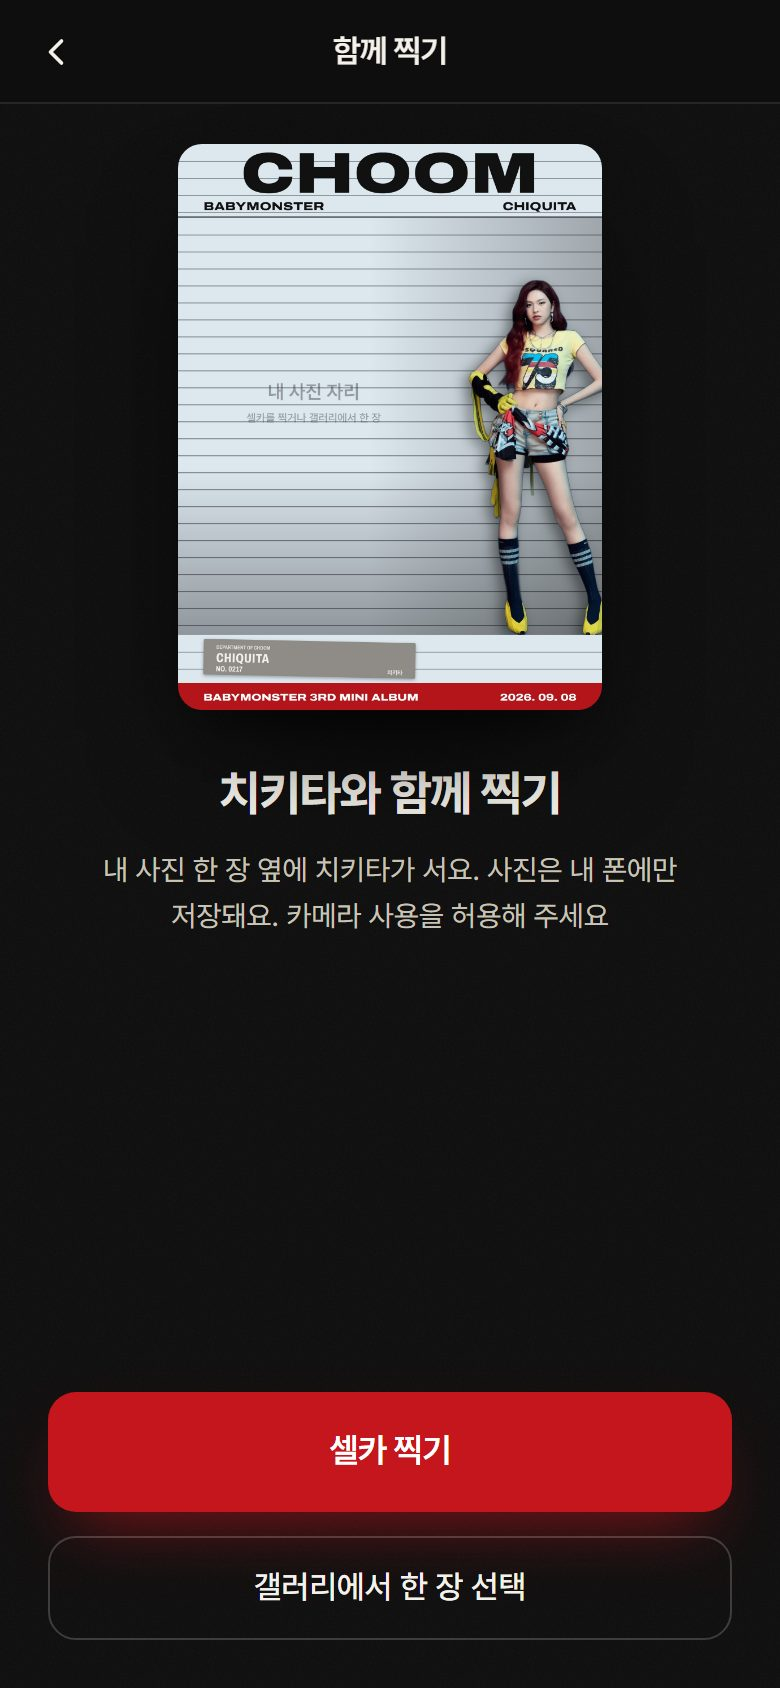
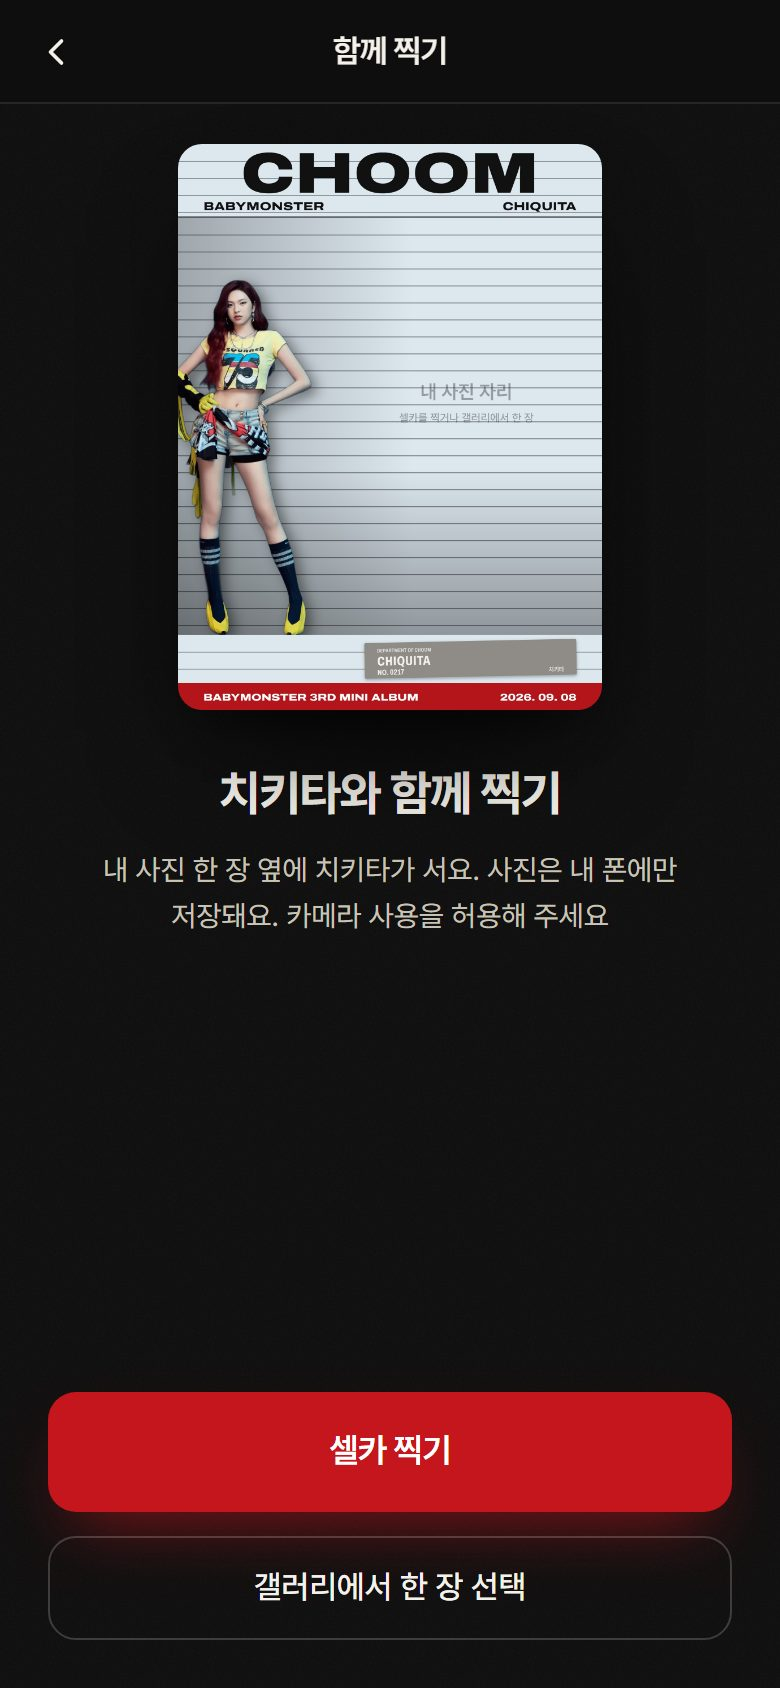
세트 완성 이벤트 코드 반영: 단체 프레임 해금 제거, 이벤트 안내 시트·안내 페이지 항목 추가
- data/lucky-numbers.json: setEvent(사은품, 지급 수량 10, 응모 마감, 발표일) 추가. 타입 lib/catalog.ts SetEvent, PublicSet 으로 클라이언트 전달
- 내 도감: 7장 완성 시 "세트를 모두 모았어요" + "이벤트 안내 보기" 버튼 → 세트 완성 이벤트 시트(사은품, 응모 방법, 마감, 발표, 응모하기). 응모하기는 데모라 안내 토스트
- 함께 찍기: 세트 완성 해금 로직 제거. 단체 프레임은 단체 카드의 기본 프레임으로만 제공
- 럭키 넘버 안내: "세트 완성 이벤트" 섹션(응모 조건, 사은품, 지급 수량, 선정 방식, 마감, 발표). 팬 화면 금지 단어 원칙 유지, 수량·선정 방식은 여기서만 서술
- README: 상단에 BABYMONSTER [CHOOM] 샘플 제작 문구, 구현 상태 메모 삭제, 완성 화면·이벤트 시트 캡처 2장 추가
- scripts/shoot-readme.mjs: 7장 완성 상태와 이벤트 시트 캡처 단계 추가, 캡처 19장 재생성

검증: tsc, vitest 16, 금지 단어 검사, 스모크 e2e 21 / 21 통과

Claude-Session: https://claude.ai/code/session_01VEcZGMK1C3uahTAL6qa2Eo

Changed region(s): [[0.2154, 0.1232, 0.7692, 0.4005]]

diff --git a/components/Collection.tsx b/components/Collection.tsx
@@ -7,7 +7,7 @@ import { isSetComplete, useCollection } from "@/lib/collection";
 import { BottomNav } from "./BottomNav";
 import { cardHref } from "@/lib/card-link";
 import type { PublicSet } from "@/lib/public-set";
-import { BottomSheet, PrimaryButton, SecondaryButton, TopBar } from "./ui";
+import { BottomSheet, PrimaryButton, SecondaryButton, Toast, TopBar } from "./ui";
 
 export function Collection({ set }: { set: PublicSet }) {
   const items = useCollection((s) => s.items);
@@ -15,6 +15,8 @@ export function Collection({ set }: { set: PublicSet }) {
   const hydrated = useCollection((s) => s.hydrated);
   const clear = useCollection((s) => s.clear);
   const [confirmOpen, setConfirmOpen] = useState(false);
+  const [eventOpen, setEventOpen] = useState(false);
+  const [toast, setToast] = useState<string | null>(null);
   const [view, setView] = useState<"member" | "serial">("member");
 
   useEffect(() => {
@@ -165,27 +167,30 @@ export function Collection({ set }: { set: PublicSet }) {
                     />
                   )}
                 </AnimatePresence>
-                <p className="text-[14px] font-semibold">
-                  세트를 모두 모았어요. 단체 프레임이 열렸어요
+                <p className="text-[14px] font-semibold">세트를 모두 모았어요</p>
+                <p className="mt-0.5 text-[12.5px] text-paper/70">
+                  7장을 모두 모은 분께 드리는 이벤트가 있어요
                 </p>
-                <Link
-                  href="/studio"
-                  className="mt-2 inline-flex items-center gap-1 text-[13px] font-medium text-paper/80 underline-offset-4 active:underline"
+                <button
+                  type="button"
+                  onClick={() => setEventOpen(true)}
+                  className="mt-2 inline-flex items-center gap-1 text-[13px] font-medium text-paper/85 underline-offset-4 active:underline"
                 >
-                  함께 찍기로 가기
+                  이벤트 안내 보기
                   <svg
                     width="14"
                     height="14"
                     viewBox="0 0 24 24"
                     fill="none"
                     stroke="currentColor"
-                    strokeWidth="2.2"
+                    strokeWidth="2"
                     strokeLinecap="round"
                     strokeLinejoin="round"
+                    aria-hidden
                   >
                     <path d="M9 6l6 6-6 6" />
                   </svg>
-                </Link>
+                </button>
               </motion.div>
             )}
           </div>
@@ -357,6 +362,72 @@ export function Collection({ set }: { set: PublicSet }) {
           </PrimaryButton>
         </div>
       </BottomSheet>
+
+      <BottomSheet open={eventOpen} onClose={() => setEventOpen(false)}>
+        <SetEventSheet
+          event={set.setEvent}
+          onEnter={() => {
+            setToast("기획사 응모 페이지로 연결됩니다");
+            setTimeout(() => setToast(null), 2200);
+          }}
+        />
+      </BottomSheet>
+      <Toast message={toast} />
+    </div>
+  );
+}
+
+/** 세트 완성 이벤트 안내. 7장(멤버 6 + 단체 1)을 같은 기기 도감에 전부 등록했을 때만 열린다. */
+function SetEventSheet({
+  event,
+  onEnter,
+}: {
+  event: PublicSet["setEvent"];
+  onEnter: () => void;
+}) {
+  const fmt = (d: string) => d.replace(/-/g, ".");
+  return (
+    <div>
+      <span className="badge-gold inline-flex h-7 items-center rounded-full px-2.5 text-[10.5px] font-extrabold tracking-[0.12em]">
+        SET COMPLETE
+      </span>
+      <h2 className="mt-3 text-[22px] font-bold leading-tight tracking-tight">
+        7장을 모두 모은 분께 드려요
+      </h2>
+      <p className="mt-1.5 text-[14px] text-ink-2">
+        응모한 분 중 {event.winners}명에게 소정의 사은품을 드려요. 응모는
+        카드가 처음 등록된 이 기기에서만 할 수 있어요.
+      </p>
+      <dl className="mt-5 flex flex-col gap-4 text-[14.5px]">
+        <div>
+          <dt className="text-[12.5px] text-ink-3">사은품</dt>
+          <dd className="mt-0.5 font-medium">{event.gift}</dd>
+        </div>
+        <div>
+          <dt className="text-[12.5px] text-ink-3">응모 방법</dt>
+          <dd className="mt-0.5 font-medium">
+            응모하기를 눌러 기획사 응모 페이지에서 수령 정보를 입력하면 안내
+            문자가 발송됩니다.
+          </dd>
+        </div>
+        <div>
+          <dt className="text-[12.5px] text-ink-3">응모 마감</dt>
+          <dd className="mt-0.5 font-medium tnum">{fmt(event.entryDeadline)}</dd>
+        </div>
+        <div>
+          <dt className="text-[12.5px] text-ink-3">발표</dt>
+          <dd className="mt-0.5 font-medium tnum">
+            {fmt(event.announceAt)} 응모 시 입력한 연락처로 개별 안내
+          </dd>
+        </div>
+      </dl>
+      <div className="mt-6">
+        <PrimaryButton onClick={onEnter}>응모하기</PrimaryButton>
+        <p className="mt-3 text-center text-[12px] leading-relaxed text-ink-3">
+          선정과 지급은 기획사가 맡습니다. 자세한 기준은 럭키 넘버 안내
+          페이지에 적혀 있습니다.
+        </p>
+      </div>
     </div>
   );
 }

diff --git a/app/notice/page.tsx b/app/notice/page.tsx
@@ -4,12 +4,13 @@ import { luckyListHash } from "@/lib/lucky-hash";
 
 export const dynamic = "force-dynamic";
 
-/** 럭키 넘버 안내 (법적 고지). 사실만 나열한다. */
+/** 럭키 넘버 안내 (법적 고지). 사실만 나열한다. 세트 완성 이벤트의 수량과 선정 방식도 여기서만 적는다. */
 export default function NoticePage() {
   const cardSet = getCardSet();
   const luckyConfig = getLuckyConfig();
   const totalIssued = cardSet.issuedPerDesign * cardSet.designs.length;
   const luckyTotal = luckyConfig.numbers.length;
+  const setEvent = luckyConfig.setEvent;
   const hash = luckyListHash();
   const ratio = ((luckyTotal / totalIssued) * 100).toFixed(3);
   const fmt = (d: string) => d.replace(/-/g, ".");
@@ -56,6 +57,18 @@ export default function NoticePage() {
           </p>
           <Row k="해시 공개일" v={fmt(luckyConfig.publishedAt)} />
           <Row k="원본 공개 예정일" v={fmt(luckyConfig.revealAt)} />
+        </Section>
+
+        <Section title="세트 완성 이벤트">
+          <p className="text-[13.5px]">
+            세트 7장(멤버 카드 6장과 단체 카드 1장)을 모두 같은 기기에서 처음 등록해 내 도감에 담은 사람이 응모할 수 있습니다. 응모자 가운데 아래 수량만큼 기획사가 무작위로 선정해 사은품을 지급합니다.
+          </p>
+          <Row k="응모 조건" v="세트 7장 모두 이 기기가 첫 등록자" />
+          <Row k="사은품" v={setEvent.gift} />
+          <Row k="지급 수량" v={<span className="tnum">{setEvent.winners}명</span>} />
+          <Row k="선정 방식" v="응모자 중 무작위 선정 (기획사 주관)" />
+          <Row k="응모 마감" v={fmt(setEvent.entryDeadline)} />
+          <Row k="발표" v={`${fmt(setEvent.announceAt)} 응모 시 입력한 연락처로 개별 안내`} />
         </Section>
 
         <Section title="응모와 문의">

diff --git a/lib/frames/index.ts b/lib/frames/index.ts
@@ -1,7 +1,7 @@
 /**
  * 한 장 프레임 정의. [춤 (CHOOM)] 무드.
  * 내 사진 한 장이 배경이 되고, 멤버 누끼가 왼쪽 또는 오른쪽에 서 있는 것처럼 얹힌다.
- * 종류: 카드별 기본 프레임(머그샷 벽), 금색 테두리(럭키), 단체 프레임(세트 완성).
+ * 종류: 카드별 기본 프레임(머그샷 벽), 금색 테두리(럭키), 단체 프레임(단체 카드의 기본 프레임). 세트 완성으로 열리는 프레임은 없다.
  */
 
 export type FrameKind = "card" | "lucky" | "group";
@@ -74,7 +74,7 @@ export function luckyFrame(artist: string, design?: DesignSeed): FrameDef {
   };
 }
 
-/** 세트 완성 시 열리는 단체 프레임 */
+/** 단체 카드의 기본 프레임 */
 export function groupFrame(artist: string, group?: DesignSeed): FrameDef {
   return {
     id: "frame-group",
@@ -96,17 +96,14 @@ export type FrameContext = {
   /** 지금 열려 있는 카드의 디자인 */
   currentDesignId: string | null;
   luckyUnlocked: boolean;
-  groupUnlocked: boolean;
 };
 
 /** 이 기기에서 지금 고를 수 있는 프레임 목록 */
 export function availableFrames(ctx: FrameContext): FrameDef[] {
   const list: FrameDef[] = [];
   const current = ctx.designs.find((d) => d.id === ctx.currentDesignId);
-  const group = ctx.designs.find((d) => d.id === "group");
-  if (current) list.push(cardFrame(current, ctx.artist));
+  if (current) list.push(current.id === "group" ? groupFrame(ctx.artist, current) : cardFrame(current, ctx.artist));
   if (ctx.luckyUnlocked) list.push(luckyFrame(ctx.artist, current));
-  if (ctx.groupUnlocked) list.push(groupFrame(ctx.artist, group));
   if (list.length === 0 && ctx.designs[0]) list.push(cardFrame(ctx.designs[0], ctx.artist));
   return list;
 }

diff --git a/components/Studio.tsx b/components/Studio.tsx
@@ -3,7 +3,7 @@
 import { useSearchParams } from "next/navigation";
 import { useCallback, useEffect, useMemo, useRef, useState } from "react";
 import { AnimatePresence, motion } from "framer-motion";
-import { hasLuckyCard, isSetComplete, useCollection } from "@/lib/collection";
+import { hasLuckyCard, useCollection } from "@/lib/collection";
 import { availableFrames, randomSide, type FrameDef, type Side } from "@/lib/frames";
 import { PHOTO_ASPECT, canvasToBlob, composeSingle, todayText, toWallpaper, type Shot } from "@/lib/compose";
 import { loadSessionCard } from "@/lib/session-card";
@@ -86,7 +86,6 @@ export function Studio({ set }: { set: PublicSet }) {
       artist: set.artist,
       currentDesignId: current?.designId ?? null,
       luckyUnlocked: luckyFromSession || hasLuckyCard(items),
-      groupUnlocked: isSetComplete(items, set.id, set.designs.map((d) => d.id)),
     });
   }, [set, current, luckyFromSession, items]);
 
@@ -517,7 +516,7 @@ function Compose({
                 <span>
                   <span className="block text-[13px] font-semibold">{f.name}</span>
                   <span className={`block text-[11px] ${active ? "text-paper/70" : "text-ink-3"}`}>
-                    {f.kind === "card" ? "카드 기본" : f.kind === "lucky" ? "럭키 넘버 해금" : "세트 완성 해금"}
+                    {f.kind === "lucky" ? "럭키 넘버 해금" : "카드 기본"}
                   </span>
                 </span>
               </button>

diff --git a/lib/public-set.ts b/lib/public-set.ts
@@ -1,5 +1,5 @@
 import "server-only";
-import { getCards, getCardSet } from "@/lib/catalog";
+import { getCards, getCardSet, getLuckyConfig, type SetEvent } from "@/lib/catalog";
 
 /** 클라이언트 화면에 넘겨도 되는 세트 정보 (토큰 없음). */
 export type PublicSet = {
@@ -13,6 +13,8 @@ export type PublicSet = {
   logoImage: string;
   heroImage?: string;
   groupImage?: string;
+  /** 세트 완성 이벤트 안내 (럭키 번호 목록은 포함하지 않는다) */
+  setEvent: SetEvent;
   designs: { id: string; member: string; nameEn: string; accent: string; image: string; cutImage?: string; cutoutImage?: string }[];
 };
 
@@ -30,6 +32,7 @@ export function getPublicSet(): PublicSet {
     logoImage: cardSet.logoImage,
     heroImage: cardSet.heroImage,
     groupImage: cardSet.groupImage,
+    setEvent: getLuckyConfig().setEvent,
     designs: cardSet.designs.map((d) => ({
       ...d,
       image: cards.find((c) => c.designId === d.id)?.image ?? "",

diff --git a/lib/catalog.ts b/lib/catalog.ts
@@ -54,12 +54,21 @@ export type CardRecord = {
 export type LuckyGrade = { grade: string; count: number; benefit: string };
 export type LuckyNumber = { designId: string; serial: string; grade: string };
 
+/** 세트 완성 이벤트: 세트 7장(멤버 6 + 단체 1)을 같은 기기 도감에 전부 등록한 사람이 응모. 응모자 중 winners 명을 기획사가 무작위 선정. */
+export type SetEvent = {
+  gift: string;
+  winners: number;
+  entryDeadline: string;
+  announceAt: string;
+};
+
 export type LuckyConfig = {
   publishedAt: string;
   revealAt: string;
   entryDeadline: string;
   contact: string;
   grades: LuckyGrade[];
+  setEvent: SetEvent;
   numbers: LuckyNumber[];
 };
 

diff --git a/README.md b/README.md
@@ -1,5 +1,7 @@
 # 럭키 넘버 카드 · 데모 v0.1
 
+> 이 데모는 BABYMONSTER 의 3rd Mini Album [CHOOM](춤)을 샘플로 제작했습니다. 이미지는 앨범 공식 공개 화보이며 데모 시연용입니다. 실제 상품 사용은 기획사 승인이 필요합니다.
+
 내 포토카드 멤버와 함께 찍는 프레임. 정품은 기본, 럭키 넘버는 덤.
 
 프로덕션: https://lucky-number-card.vercel.app
@@ -50,10 +52,10 @@
 
 이 기기에서 등록한 카드 목록. 브라우저 저장소에만 저장되고 계정은 없다. 미보유 멤버는 흐리게, 럭키 카드는 LUCKY 표시. 세트 완성률이 올라가고, 멤버 6장 + 단체 카드 1장 = 7장을 전부 이 기기 도감에 등록하면 **세트 완성 이벤트**에 응모할 수 있다. 응모자 가운데 일부에게 기획사가 소정의 사은품을 지급한다(선정 방식과 수량은 안내 페이지에 표기). 프레임 해금은 없다.
 
-> 구현 상태: 이벤트 안내 시트와 안내 페이지 항목은 아직 코드에 반영되지 않았다. 현재 데모는 7장 완성 시 예전 기획(단체 프레임 해금) 연출이 남아 있다.
-
 <table><tr>
 <td align="center"><img src="docs/screenshots/10-collection.jpg" width="260"><br><sub>3 / 7장 등록 상태</sub></td>
+<td align="center"><img src="docs/screenshots/18-collection-complete.jpg" width="260"><br><sub>7 / 7장 완성: 축하 연출 + 이벤트 안내</sub></td>
+<td align="center"><img src="docs/screenshots/19-set-event.jpg" width="260"><br><sub>세트 완성 이벤트 시트 (응모)</sub></td>
 </tr></table>
 
 ### 6. 정품 상태 3종
@@ -149,7 +151,7 @@ npm run typecheck     # 타입 검사
 npm run lint          # ESLint
 npm test              # 단위 테스트 (검증 3상태, 토큰 대조, 확인 횟수 규칙, 해시)
 npm run test:e2e      # 폰 화면 스모크 테스트 21항목 (배포용 빌드 + 3100 포트, 등록 상태는 임시 파일)
-node scripts/shoot-readme.mjs   # README 화면 캡처 17장 재생성 (docs/screenshots, 같은 방식으로 격리)
+node scripts/shoot-readme.mjs   # README 화면 캡처 19장 재생성 (docs/screenshots, 같은 방식으로 격리)
 npm run check:words   # 금지 단어, 줄표 전수 검색
 npm run qr            # 데모 QR 3장 생성
 ```
